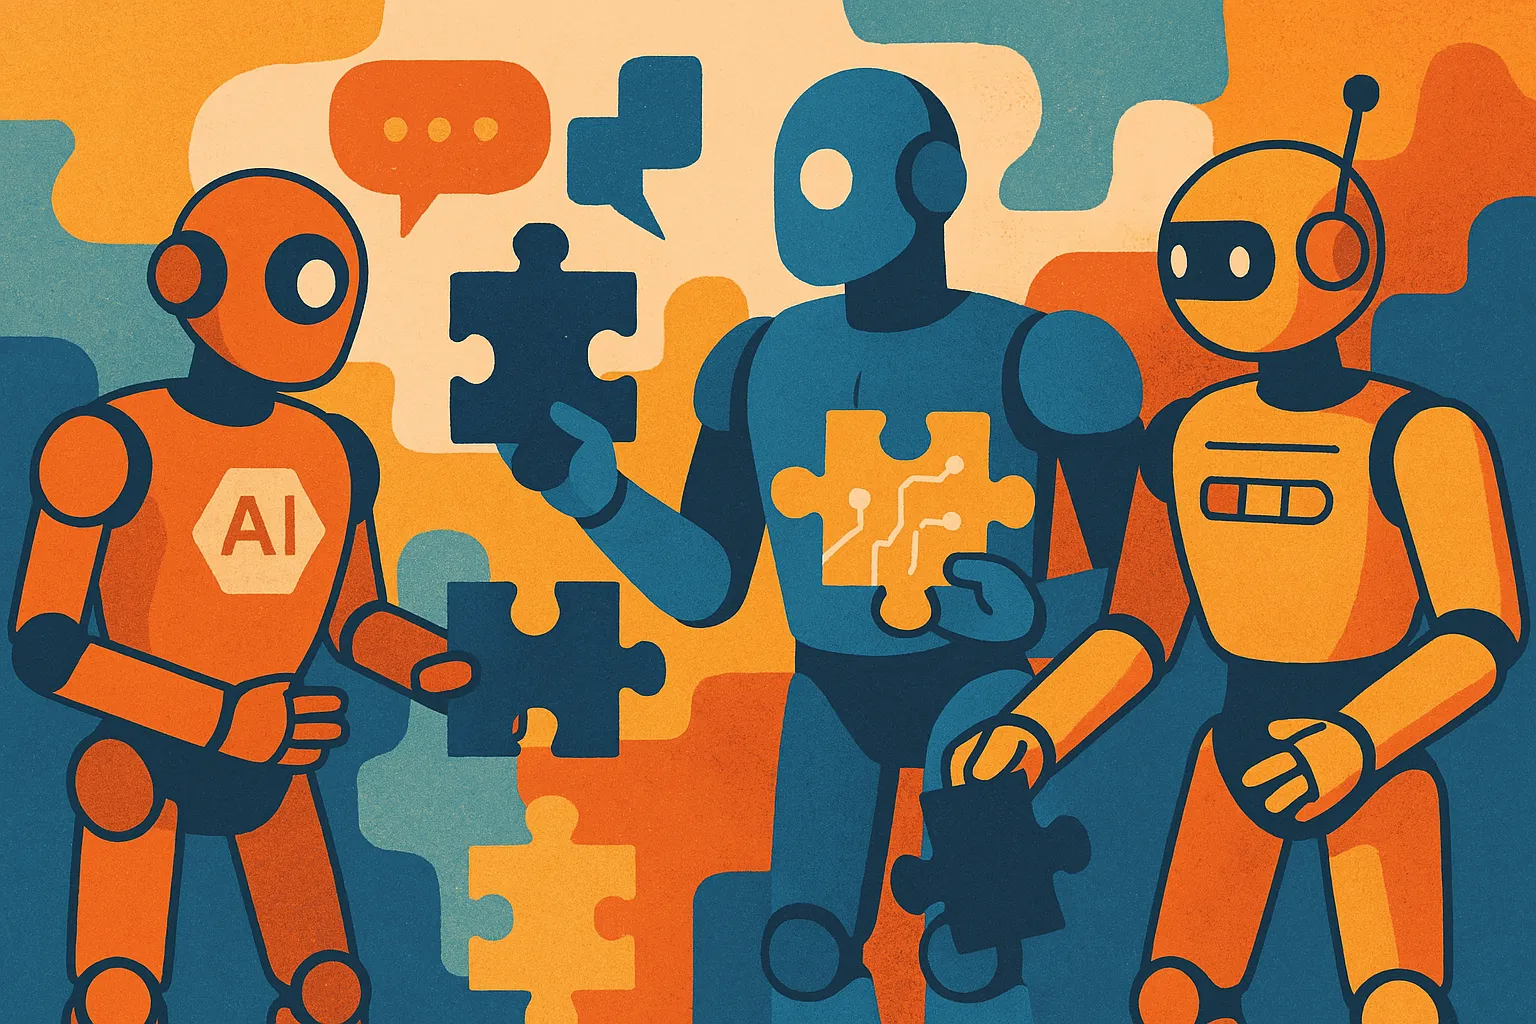
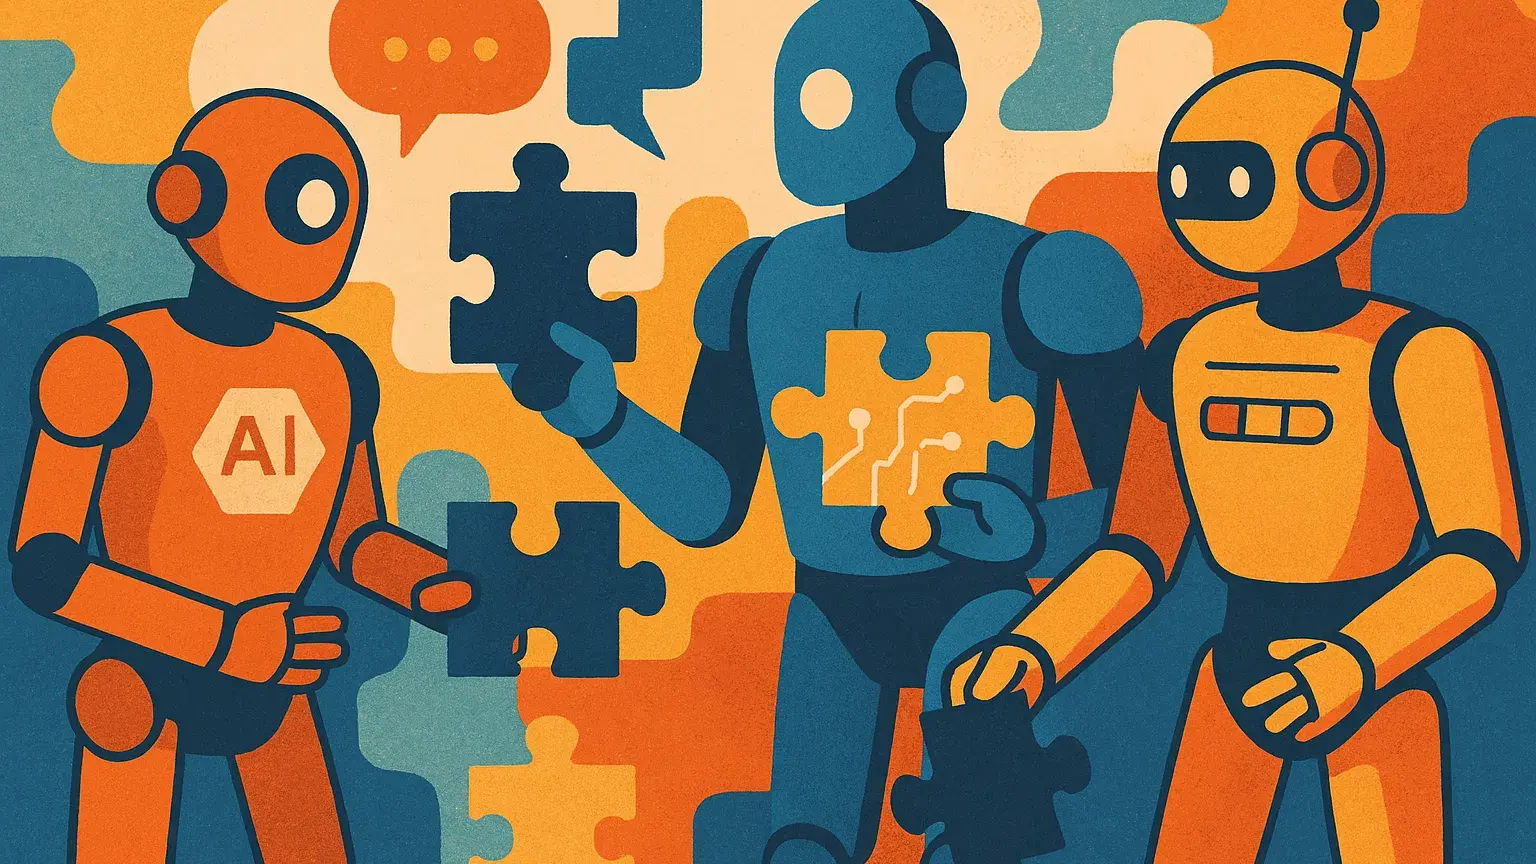
SEO: subtitle field + keyword-first titles + Discover-ready hero images (#12)
* add subtitle field and rewrite titles for SEO CTR on high-impression posts

* crop blog heroes to 1536x864 (16:9) for Google Discover and OG compliance

* address PR review: trim subtitle, add doc-subtitle role, shorten meta description

diff --git a/src/content/config.ts b/src/content/config.ts
@@ -16,6 +16,7 @@ const blogCollection = defineCollection({
   type: 'content',
   schema: z.object({
     title: z.string(),
+    subtitle: z.string().trim().optional(),
     description: z.string(),
     pubDate: z.date(),
     updatedDate: z.date().optional(),

diff --git a/src/content/blog/agent-drift.md b/src/content/blog/agent-drift.md
@@ -1,6 +1,7 @@
 ---
-title: "Agent Drift: How Autonomous AI Agents Lose the Plot"
-description: "Autonomous AI agents degrade over long-horizon tasks through accumulated context pollution, not single failures. What agent drift is, why it happens, and how to architect against it."
+title: "Agent Drift in AI Systems"
+subtitle: "How autonomous agents lose the plot"
+description: "Agent drift is when autonomous AI agents degrade over long tasks through context pollution, not single failures. What it is, why it happens, how to prevent it."
 pubDate: 2026-02-24
 heroImage: "/images/blog/agent-drift/hero.webp"
 series: ["AI Agents"]

diff --git a/src/content/blog/agent-framework-generations.md b/src/content/blog/agent-framework-generations.md
@@ -1,5 +1,6 @@
 ---
-title: "The Archeology of Agent Frameworks"
+title: "Agent Framework Generations"
+subtitle: "The archeology of five generations, from API loops to federated swarms"
 description: "Digging through five generations of agent frameworks, from raw API loops to federated swarms. How the developer went from outer shell to inner kernel, why each generation compressed faster than the last, and why the cycle is restarting."
 pubDate: 2026-03-26
 heroImage: "/images/blog/agent-framework-generations/hero.webp"

diff --git a/src/content/blog/modern-ml-training-infra.md b/src/content/blog/modern-ml-training-infra.md
@@ -1,5 +1,6 @@
 ---
-title: "Machine Learning Training Infrastructure Guide"
+title: "Modern ML Training Infrastructure"
+subtitle: "Distributed training, GPU clouds, and spot instances without scaling costs"
 description: "Scale ML models faster with the right training infrastructure. Covers distributed training, GPU clouds, spot instances, and cloud-agnostic setups."
 pubDate: 2025-03-31
 heroImage: "/images/blog/ml-training-infra/hero.webp"

diff --git a/src/content/blog/agent-frameworks.md b/src/content/blog/agent-frameworks.md
@@ -1,5 +1,6 @@
 ---
-title: "AI Agent Frameworks: A Fragmented Landscape"
+title: "AI Agent Frameworks"
+subtitle: "A practical comparison of a fragmented landscape"
 description: "A practical comparison of AI agent frameworks — OpenAI Agents SDK, Google ADK, AWS Bedrock, and Smol Agents — covering architecture, multi-agent systems, and emerging trends."
 pubDate: 2025-04-10
 heroImage: "/images/blog/agent-frameworks/hero.webp"

diff --git a/src/content/blog/a2a-protocol.md b/src/content/blog/a2a-protocol.md
@@ -1,5 +1,6 @@
 ---
-title: "A2A Protocol: A Builder's Guide to Agent2Agent"
+title: "The A2A Protocol"
+subtitle: "A builder's guide to Agent2Agent"
 description: "Learn how the A2A Protocol enables secure AI agent communication. Covers Google's open standard, MCP differences, authentication, monetization, orchestration, and Python examples."
 pubDate: 2025-07-04
 heroImage: "/images/blog/a2a-protocol/hero.webp"

diff --git a/src/content/blog/ambient-ai-torale.md b/src/content/blog/ambient-ai-torale.md
@@ -1,5 +1,6 @@
 ---
-title: "Ambient AI: Building Torale from Complexity to Simplicity"
+title: "Ambient AI"
+subtitle: "Building Torale from complexity to simplicity"
 description: "Torale monitors the web so you don't have to. How ambient AI turns passive monitoring into proactive intelligence — and how Gemini made it possible."
 pubDate: 2025-11-17
 heroImage: "/images/blog/ambient-ai-torale/hero.webp"
